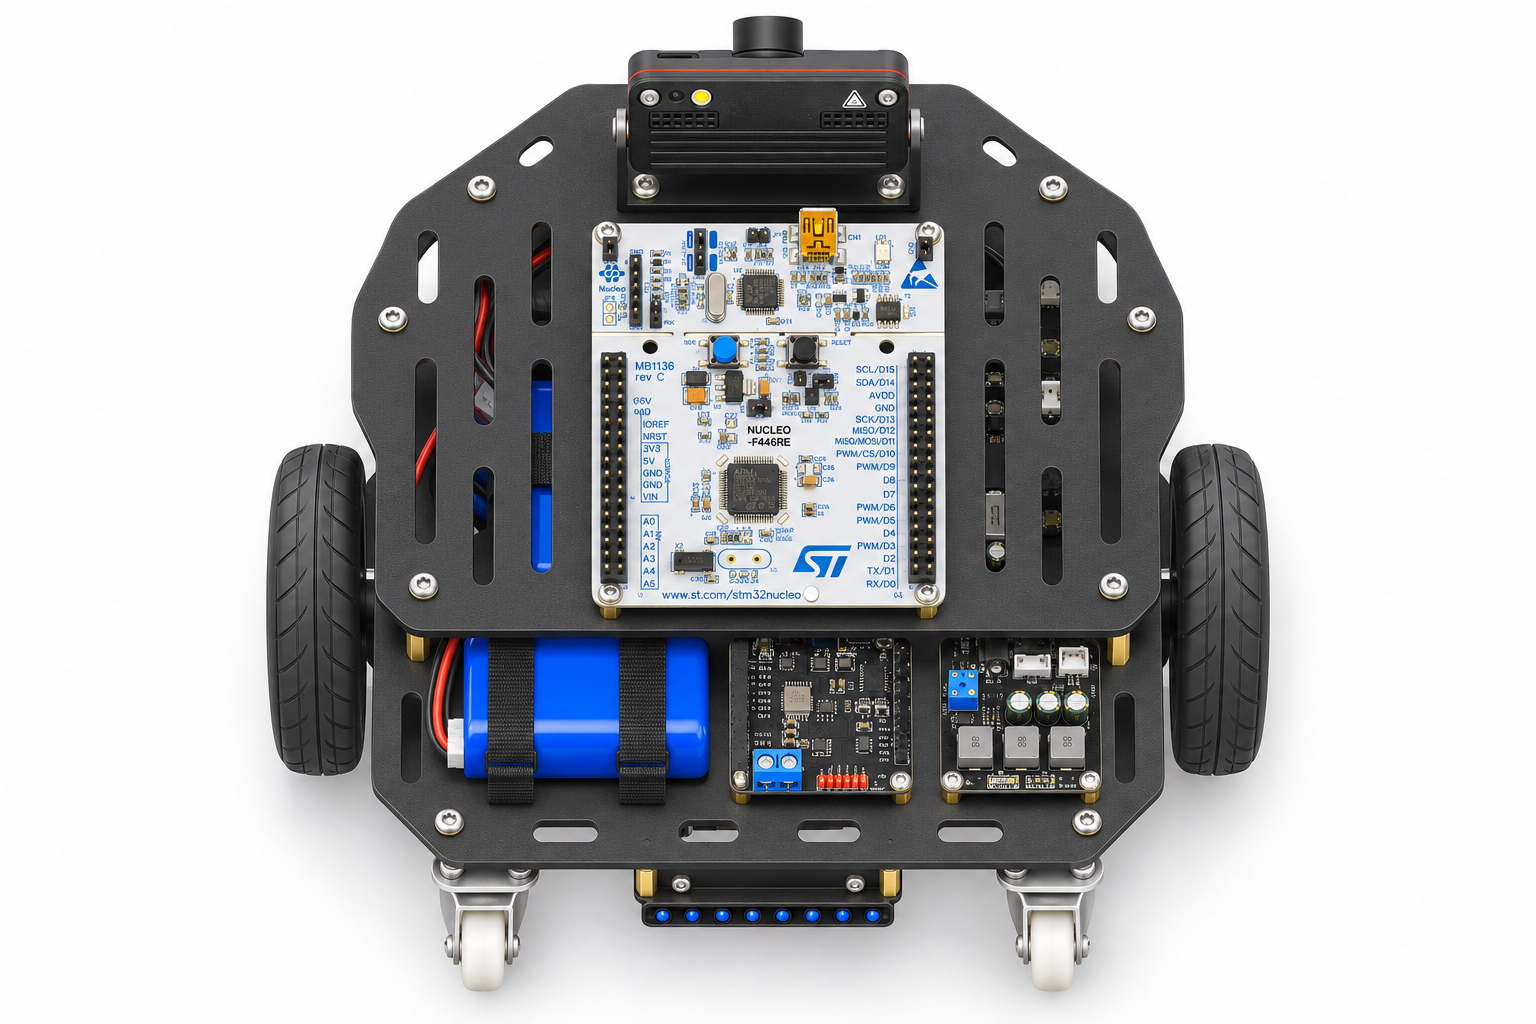
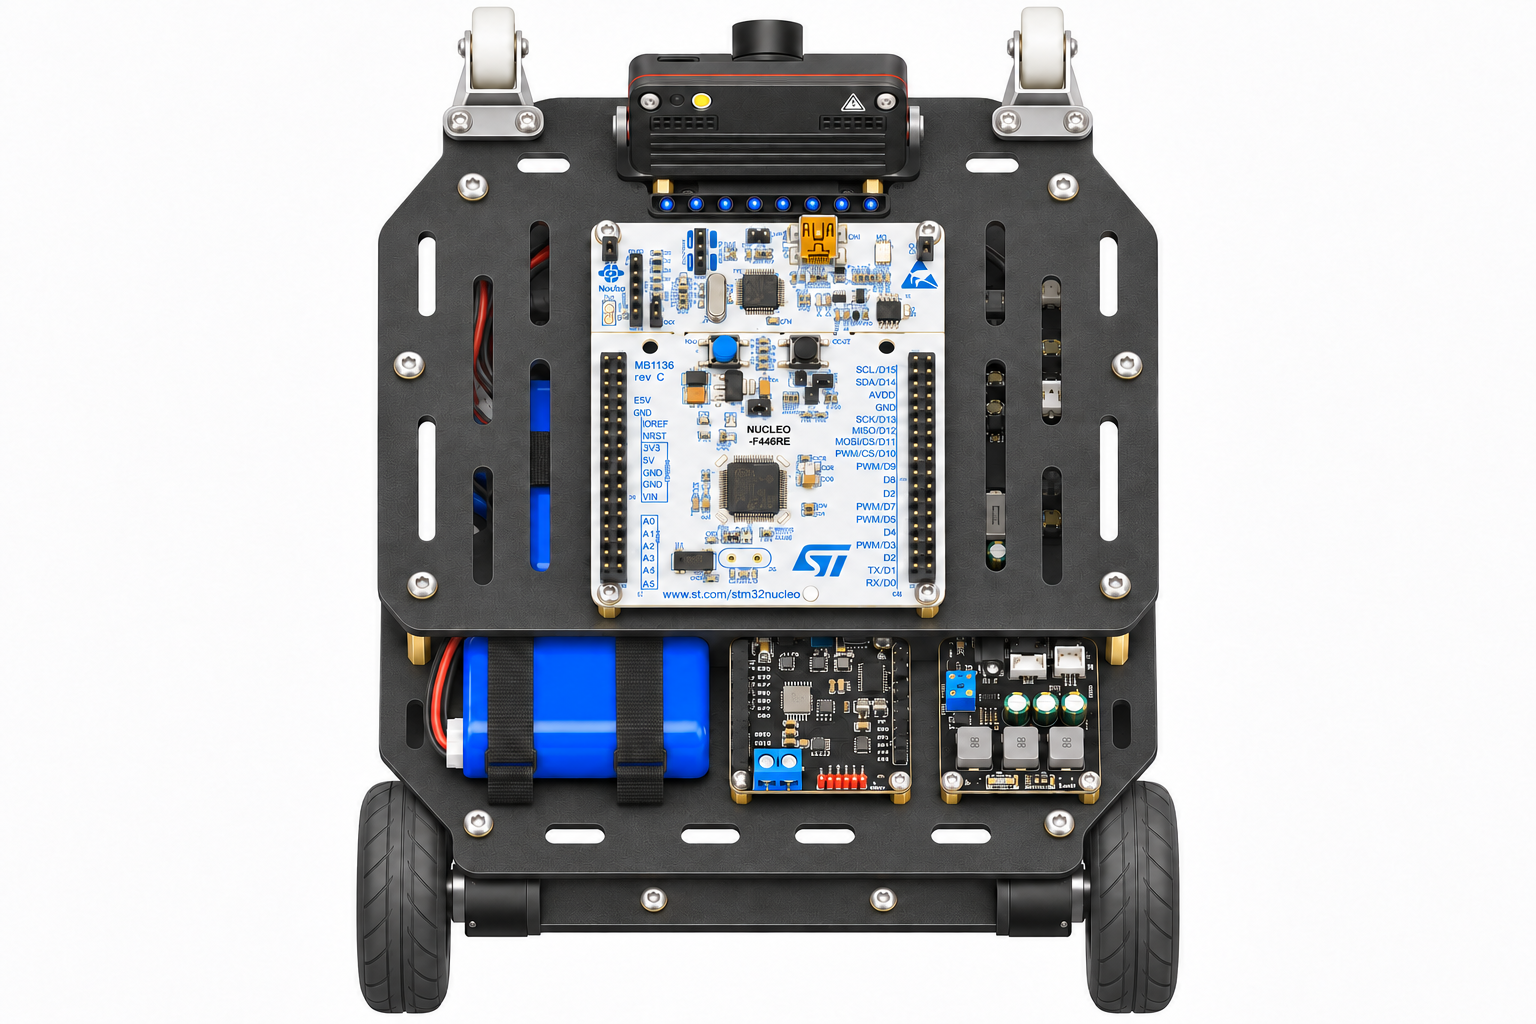
Correct assembly perspective and wheel layout

Changed region(s): [[0.1562, 0.0, 0.8438, 1.0]]

diff --git a/index.html b/index.html
@@ -427,7 +427,7 @@
               </ul>
             </div>
             <figure class="vehicle-stage" aria-label="循迹避障小车双层底盘 3D 装配图">
-              <img src="figure/assembly-layout-3d-v6.png" alt="双层循迹避障车 3D 装配图：上层放 NUCLEO-F446RE 和 MaixCAM2 前视相机，中层放电池、AT8236 双路电机驱动板和 MP2491C 稳压模块；八路循线阵列居中安装在车底、感应面朝下。">
+              <img src="figure/assembly-layout-3d-v7.png" alt="双层循迹避障车平行投影 3D 装配图：前端中心的 MaixCAM2 与一对小万向轮、上层 NUCLEO-F446RE、中层电池与驱动稳压板、后端同轴两只大驱动轮，以及车底中央朝下的八路循线阵列。">
               <figcaption class="stage-label">双层底盘 3D 装配图</figcaption>
             </figure>
           </div>
@@ -463,7 +463,7 @@
           <div class="card-head"><div><div class="section-kicker">ASSEMBLY LAYOUT</div><h2>双层底盘 · 3D 装配示意</h2></div><div class="small-note">底盘上层板约 228 × 148 mm</div></div>
           <p class="panel-lead">装配图按你给的双层底盘实物结构更新：上层板放 NUCLEO-F446RE 和前视 MaixCAM2；中层放 3S 电池、AT8236 双路电机驱动板和 MP2491C 稳压模块；八路循线阵列位于底盘中心下方、感应面朝地。底盘外形和安装孔仍需按实物复核。</p>
           <div class="assembly-layout-grid">
-            <figure class="diagram-frame"><img src="figure/assembly-layout-3d-v6.png" alt="双层循迹避障车 3D 装配图：顶层为 NUCLEO-F446RE 和车头 MaixCAM2，中层为电池、AT8236 和 MP2491C，八路循线阵列居中安装在车底朝下。"></figure>
+            <figure class="diagram-frame"><img src="figure/assembly-layout-3d-v7.png" alt="双层循迹避障车平行投影 3D 装配图：顶层 NUCLEO-F446RE，前端中心安装 MaixCAM2 并与一对小万向轮同端，中层为电池、AT8236 和 MP2491C，后端为同轴大驱动轮，八路循线阵列位于车底中央朝下。"></figure>
             <div class="assembly-key" aria-label="双层小车各层部件位置">
               <div class="assembly-key-item"><span class="assembly-deck-label">顶层</span><span><b>NUCLEO-F446RE + MaixCAM2</b><br>主控板平放在上层；相机安装在车头，镜头向前。</span></div>
               <div class="assembly-key-item"><span class="assembly-deck-label middle">中层</span><span><b>3S 电池 + AT8236 + MP2491C</b><br>电池固定在中层，驱动板和稳压模块并排安装。</span></div>
@@ -472,14 +472,14 @@
               <div class="assembly-key-item"><span class="assembly-deck-label middle">待装</span><span><b>SEN0628 ToF</b><br>后续采购；本次装配渲染不把未到货 ToF 画成实物。</span></div>
             </div>
           </div>
-          <p class="diagram-caption">主图和三视图按实际双层结构生成，用于核对部件上下层关系，不是 CAD 加工图。实物孔位、支架高度、线束固定和比赛外廓，仍需按到货底盘复核。</p>
+          <p class="diagram-caption">主图使用平行等轴测投影，保持上下层板平行；相机和一对小万向轮在前端，两只大驱动轮在后端同轴。图用于核对结构和部件上下层关系，不是 CAD 加工图；实物孔位、支架高度、线束固定和比赛外廓仍需按到货底盘复核。</p>
           <section class="assembly-views-section" aria-labelledby="assembly-views-title">
             <div class="section-kicker">ORTHOGRAPHIC VIEWS</div>
             <h3 id="assembly-views-title">双层小车三视图</h3>
             <p>正视、俯视和侧视共用同一双层布局：主控与相机在上层，电池和驱动稳压模块在中层，循线阵列在车底中央。</p>
             <div class="assembly-views-grid">
               <figure class="assembly-view-card"><img src="figure/car-three-view-front.png" alt="双层小车正视图：顶层 MaixCAM2 和 NUCLEO，中层电池、AT8236 和 MP2491C，车底中央是八路循线阵列。" loading="lazy"><figcaption>正视图 · 摄像头朝前，双层结构清楚可见</figcaption></figure>
-              <figure class="assembly-view-card"><img src="figure/car-three-view-top.png" alt="双层小车俯视图：NUCLEO-F446RE 和 MaixCAM2 位于顶层，电池、AT8236 和 MP2491C 位于其下方中层。" loading="lazy"><figcaption>俯视图 · 顶层板与中层部件位置</figcaption></figure>
+              <figure class="assembly-view-card"><img src="figure/car-three-view-top.png" alt="双层小车俯视图：前端中心为 MaixCAM2 和一对小万向轮，后端为同轴驱动轮；顶层 NUCLEO-F446RE，中层电池、AT8236 和 MP2491C，循线阵列在前部中央朝下。" loading="lazy"><figcaption>俯视图 · 相机与万向轮同端，驱动轮后置同轴</figcaption></figure>
               <figure class="assembly-view-card"><img src="figure/car-three-view-side.png" alt="双层小车侧视图：上层 NUCLEO 和 MaixCAM2，中层电池及驱动稳压模块，底部八路循线阵列朝下。" loading="lazy"><figcaption>侧视图 · 上下层板由铜柱支撑</figcaption></figure>
             </div>
           </section>

diff --git a/figure/archive/early-visual-iterations-20261118/README.md b/figure/archive/early-visual-iterations-20261118/README.md
@@ -2,6 +2,6 @@
 
 此目录保存已被当前网页版本替代的早期装配图、车型概念图和视觉模拟迭代稿。文件仅从 `figure/` 当前素材目录移入归档，没有删除。
 
-当前网页使用 `figure/assembly-layout-3d-v6.png` 和 `figure/vision-simulation-route-recognition-v5.png`。旧单层总装图和旧单层三视图保存在本目录；双层版本位于 `figure/` 根目录并显示在组装布局页。
+当前网页使用 `figure/assembly-layout-3d-v7.png` 和 `figure/vision-simulation-route-recognition-v5.png`。本目录还保存旧单层图、错误前后轮布局的 v6 总装图，以及方向未对齐的旧俯视图；当前双层三视图位于 `figure/` 根目录并显示在组装布局页。
 
 `qa-vision-composite.svg` 与 `qa-vision-composite-v3.svg` 依赖本目录中的同名视觉帧和叠加图；相关文件一并归档，以保留原有相对引用。
